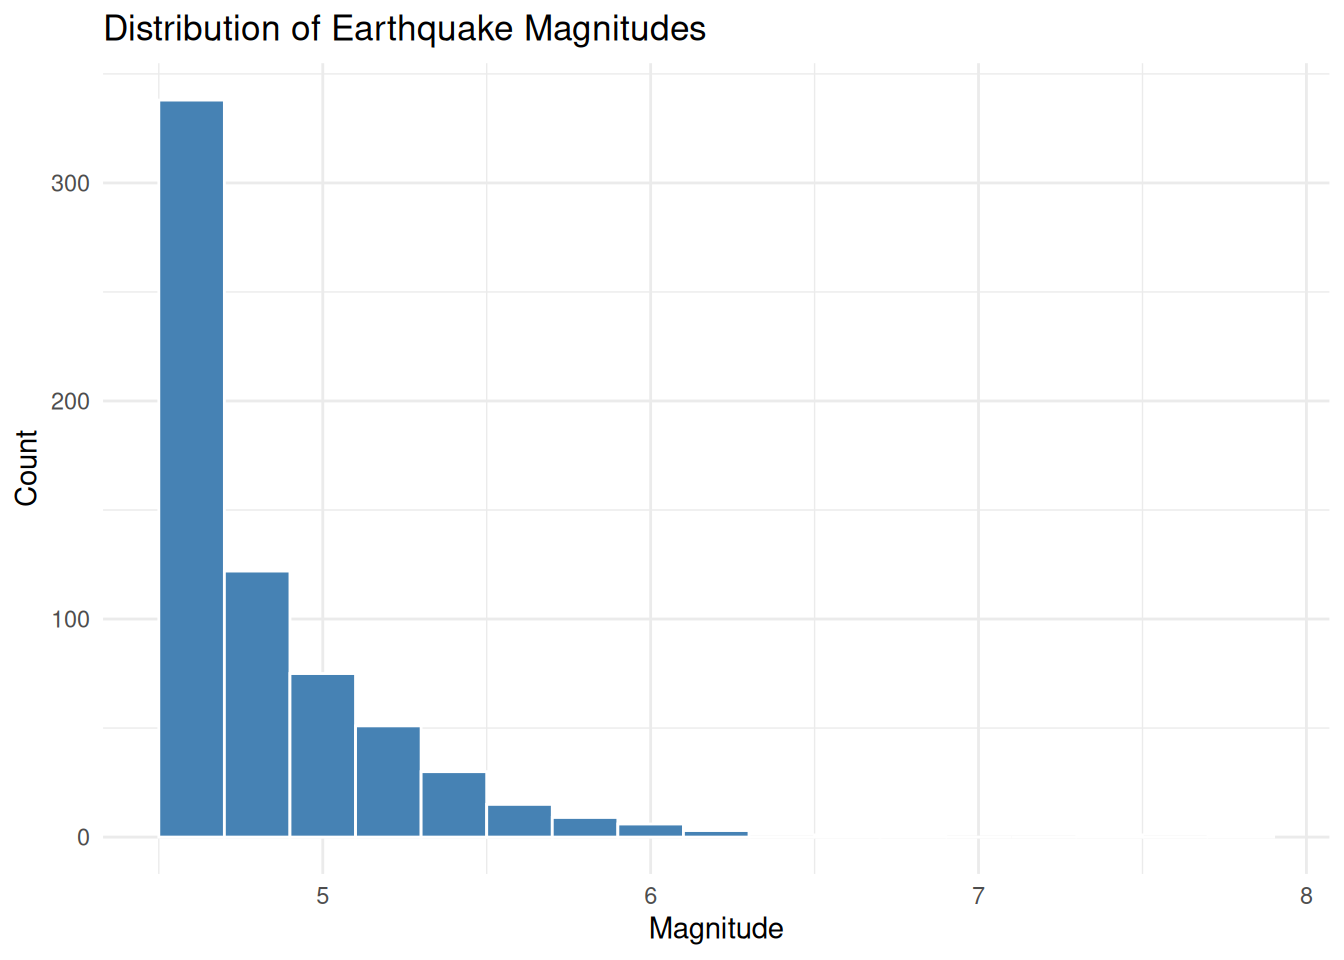
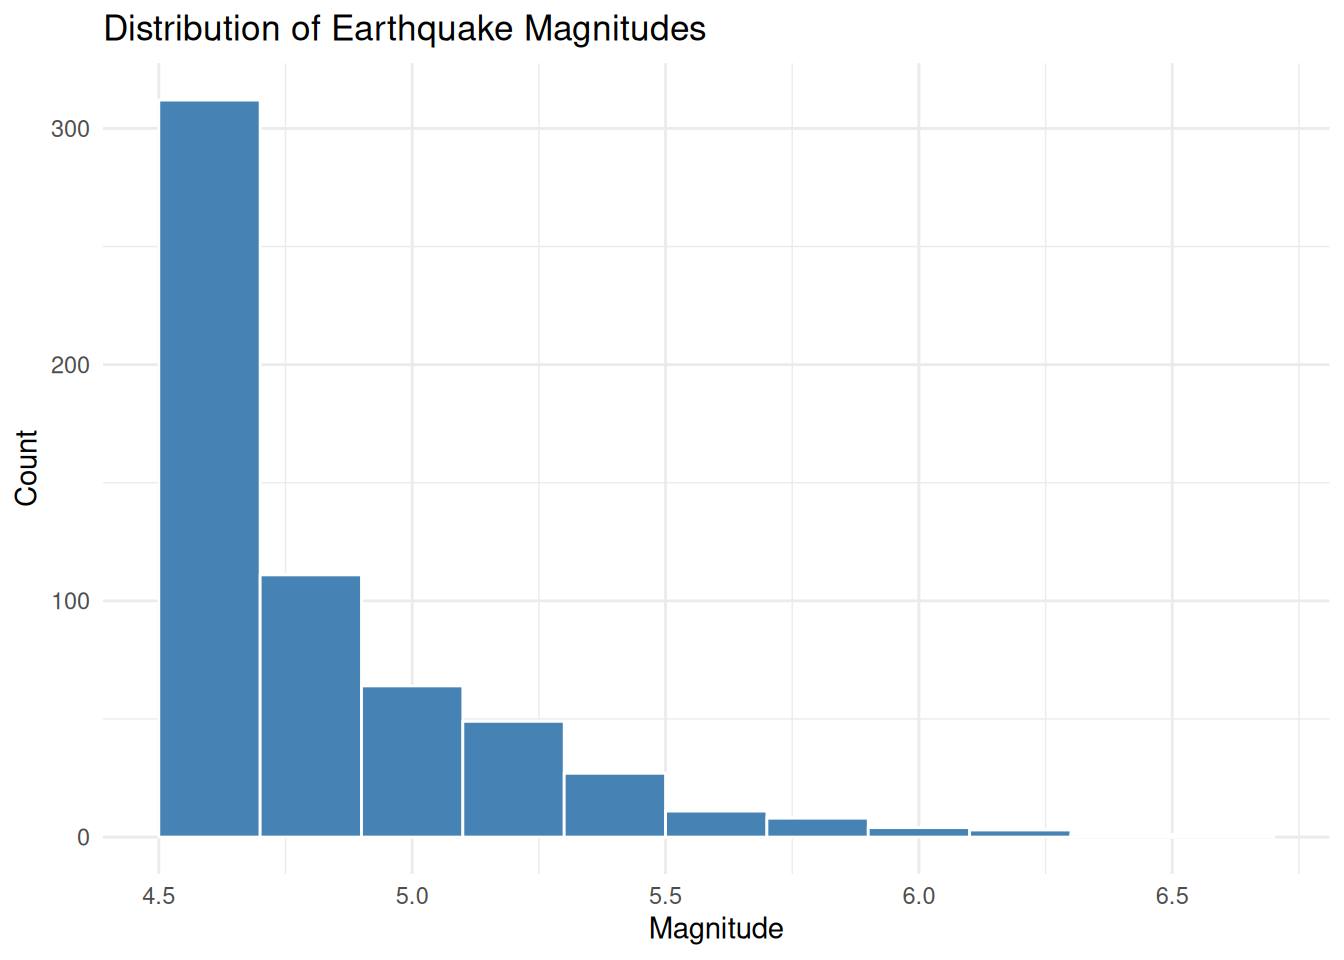
Built site for gh-pages

diff --git a/report.html b/report.html
@@ -153,7 +153,7 @@ ul.task-list li input[type="checkbox"] {
 
 <section id="overview" class="level2">
 <h2 class="anchored" data-anchor-id="overview">Overview</h2>
-<p>In the past 30 days, USGS recorded 653 earthquakes of magnitude 4.5 or greater. The strongest was a magnitude 7.8 near 64 km NNW of Ende, Indonesia.</p>
+<p>In the past 30 days, USGS recorded 591 earthquakes of magnitude 4.5 or greater. The strongest was a magnitude 6.7 near 38 km NE of Tambo, Peru.</p>
 </section>
 <section id="top-10-strongest-earthquakes" class="level2">
 <h2 class="anchored" data-anchor-id="top-10-strongest-earthquakes">Top 10 Strongest Earthquakes</h2>
@@ -169,24 +169,14 @@ ul.task-list li input[type="checkbox"] {
 </thead>
 <tbody>
 <tr class="odd">
-<td style="text-align: left;">2026-08-14</td>
-<td style="text-align: right;">7.8</td>
-<td style="text-align: left;">64 km NNW of Ende, Indonesia</td>
-</tr>
-<tr class="even">
-<td style="text-align: left;">2026-08-10</td>
-<td style="text-align: right;">7.4</td>
-<td style="text-align: left;">2 km SE of San José del Palmar, Colombia</td>
-</tr>
-<tr class="odd">
-<td style="text-align: left;">2026-08-15</td>
-<td style="text-align: right;">6.9</td>
-<td style="text-align: left;">9 km WNW of Pematangsiantar, Indonesia</td>
-</tr>
-<tr class="even">
 <td style="text-align: left;">2026-08-20</td>
 <td style="text-align: right;">6.7</td>
-<td style="text-align: left;">37 km NE of Tambo, Peru</td>
+<td style="text-align: left;">38 km NE of Tambo, Peru</td>
+</tr>
+<tr class="even">
+<td style="text-align: left;">2026-09-11</td>
+<td style="text-align: right;">6.5</td>
+<td style="text-align: left;">126 km NNE of Teluknaga, Indonesia</td>
 </tr>
 <tr class="odd">
 <td style="text-align: left;">2026-09-03</td>
@@ -209,29 +199,29 @@ ul.task-list li input[type="checkbox"] {
 <td style="text-align: left;">55 km NNE of Port-Olry, Vanuatu</td>
 </tr>
 <tr class="odd">
-<td style="text-align: left;">2026-08-14</td>
-<td style="text-align: right;">6.1</td>
-<td style="text-align: left;">62 km N of Ende, Indonesia</td>
-</tr>
-<tr class="even">
 <td style="text-align: left;">2026-08-27</td>
 <td style="text-align: right;">6.0</td>
 <td style="text-align: left;">145 km N of Caluula, Somalia</td>
 </tr>
-<tr class="odd">
+<tr class="even">
 <td style="text-align: left;">2026-08-24</td>
 <td style="text-align: right;">6.0</td>
 <td style="text-align: left;">211 km NNE of Lospalos, Timor Leste</td>
 </tr>
-<tr class="even">
+<tr class="odd">
 <td style="text-align: left;">2026-08-23</td>
 <td style="text-align: right;">6.0</td>
 <td style="text-align: left;">32 km SSW of Honchō, Japan</td>
 </tr>
+<tr class="even">
+<td style="text-align: left;">2026-09-11</td>
+<td style="text-align: right;">5.9</td>
+<td style="text-align: left;">253 km ENE of Lospalos, Timor Leste</td>
+</tr>
 <tr class="odd">
-<td style="text-align: left;">2026-08-12</td>
-<td style="text-align: right;">6.0</td>
-<td style="text-align: left;">South Sandwich Islands region</td>
+<td style="text-align: left;">2026-09-02</td>
+<td style="text-align: right;">5.9</td>
+<td style="text-align: left;">southern East Pacific Rise</td>
 </tr>
 </tbody>
 </table>
